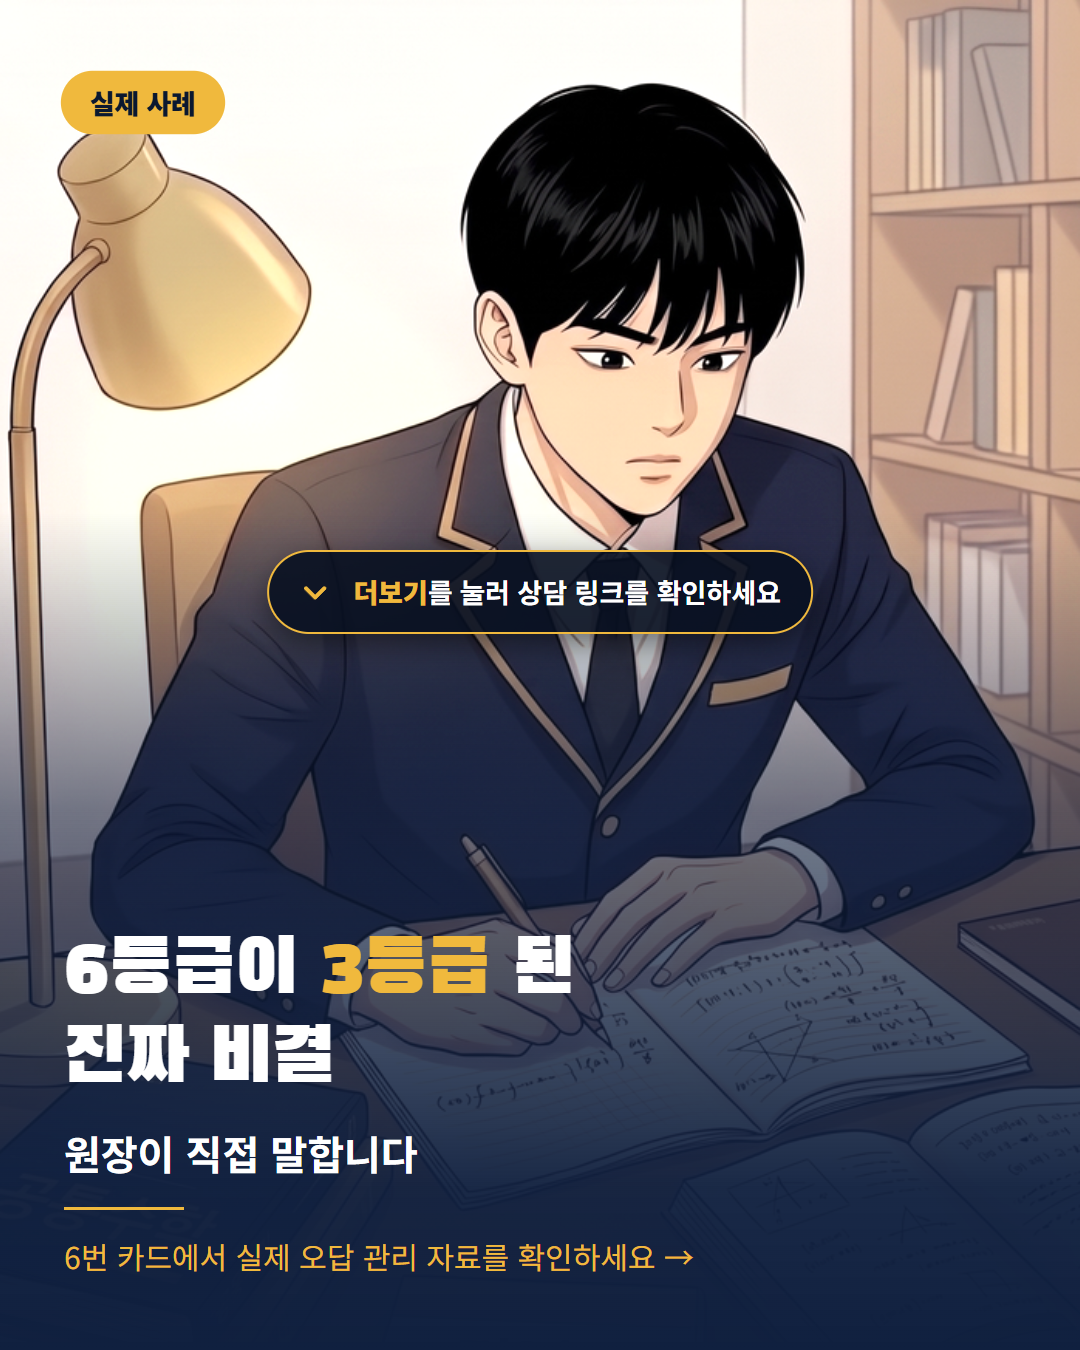
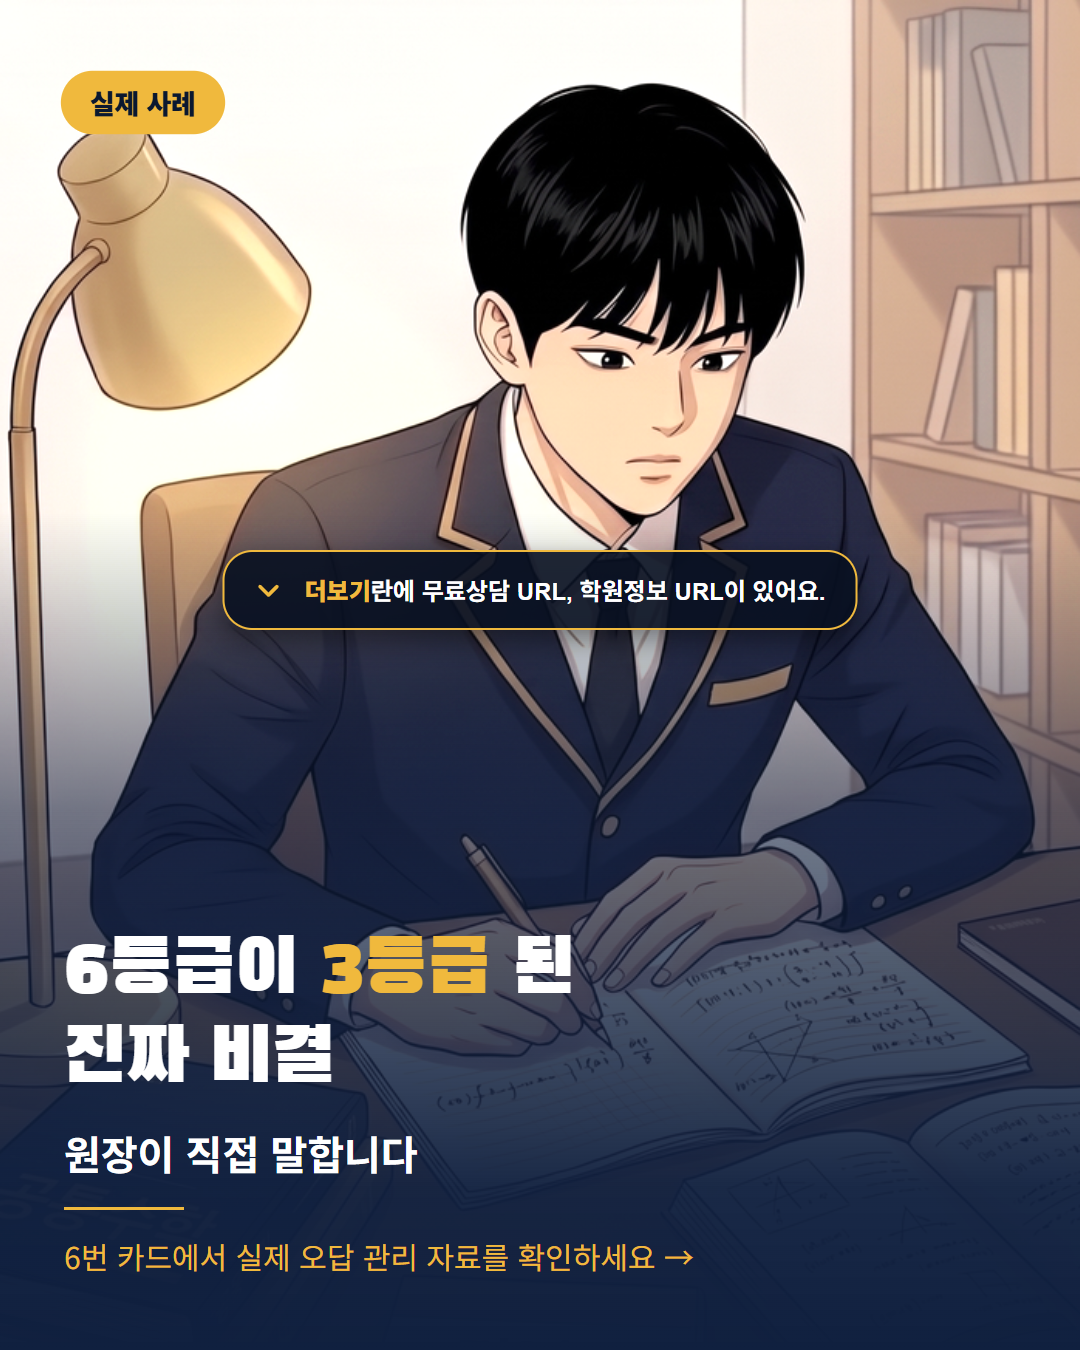
feat: 카드뉴스 CTA 문구를 숏츠와 동일하게 개정 (사용자 요청)
인스타그램 "댓글에 '9' 남겨주세요. 학원에 대한 정보와 무료상담 URL을 보내드려요."
페이스북 "더보기란에 무료상담 URL, 학원정보 URL이 있어요."
CTA 배너 wrap 대응 CSS 조정, 채널별_캡션.md 문구·글자수 갱신

Changed region(s): [[0.1833, 0.4044, 0.7944, 0.4667]]

diff --git a/queue/37_6등급3등급된비결/카드뉴스/채널별_캡션.md b/queue/37_6등급3등급된비결/카드뉴스/채널별_캡션.md
@@ -14,7 +14,7 @@
 
 우리 아이 수학 성적, 지금 무료로 정확히 진단해드릴게요. 지금 카카오톡 채널 눌러서 무료 진단 상담 예약하세요 👉
 
-🔢 댓글에 '9' 남겨주세요 — 상담 링크를 DM으로 바로 보내드립니다
+🔢 댓글에 '9' 남겨주세요. 학원에 대한 정보와 무료상담 URL을 보내드려요.
 
 🏠 학원이 궁금하다면 홈페이지에서 커리큘럼·후기 한번에 보기: https://nineplus-aca.kr
 
@@ -39,7 +39,7 @@
 2025년 고2, 수학 6등급이었던 학생이 반 년도 안 돼 3등급까지 올라간 실제 이야기예요. 특별한 비법이 아니라, 기초 확인과 오답 관리를 끝까지 지킨 결과였습니다. 물론 그 과정이 순탄하지만은 않았어요.
 
 우리 아이 수학 성적, 지금 무료로 진단해드릴게요.
-👇 더보기를 눌러 상담 링크를 확인하세요
+👇 더보기란에 무료상담 URL, 학원정보 URL이 있어요.
 
 🏠 홈페이지: https://nineplus-aca.kr
 💬 카카오톡 채널: http://pf.kakao.com/_wXzzX/chat
@@ -83,4 +83,4 @@
 
 📝 원문 보기 👉 {{BLOG_URL}}
 
-[※ 글자수 확인: 인스타그램 약 650자(2,200자 한도 내), 페이스북 약 340자, 당근 약 210자(500자 미만), 카카오톡채널 약 160자, 네이버플레이스 설명 약 150자(1,000자 한도 내) — 전부 한도 내]
+[※ 글자수 확인(CTA 문구 개정 후 재확인): 인스타그램 약 843자(2,200자 한도 내), 페이스북 약 432자, 당근 약 249자(500자 미만), 카카오톡채널 약 169자, 네이버플레이스 설명 약 207자(1,000자 한도 내) — 전부 한도 내]
